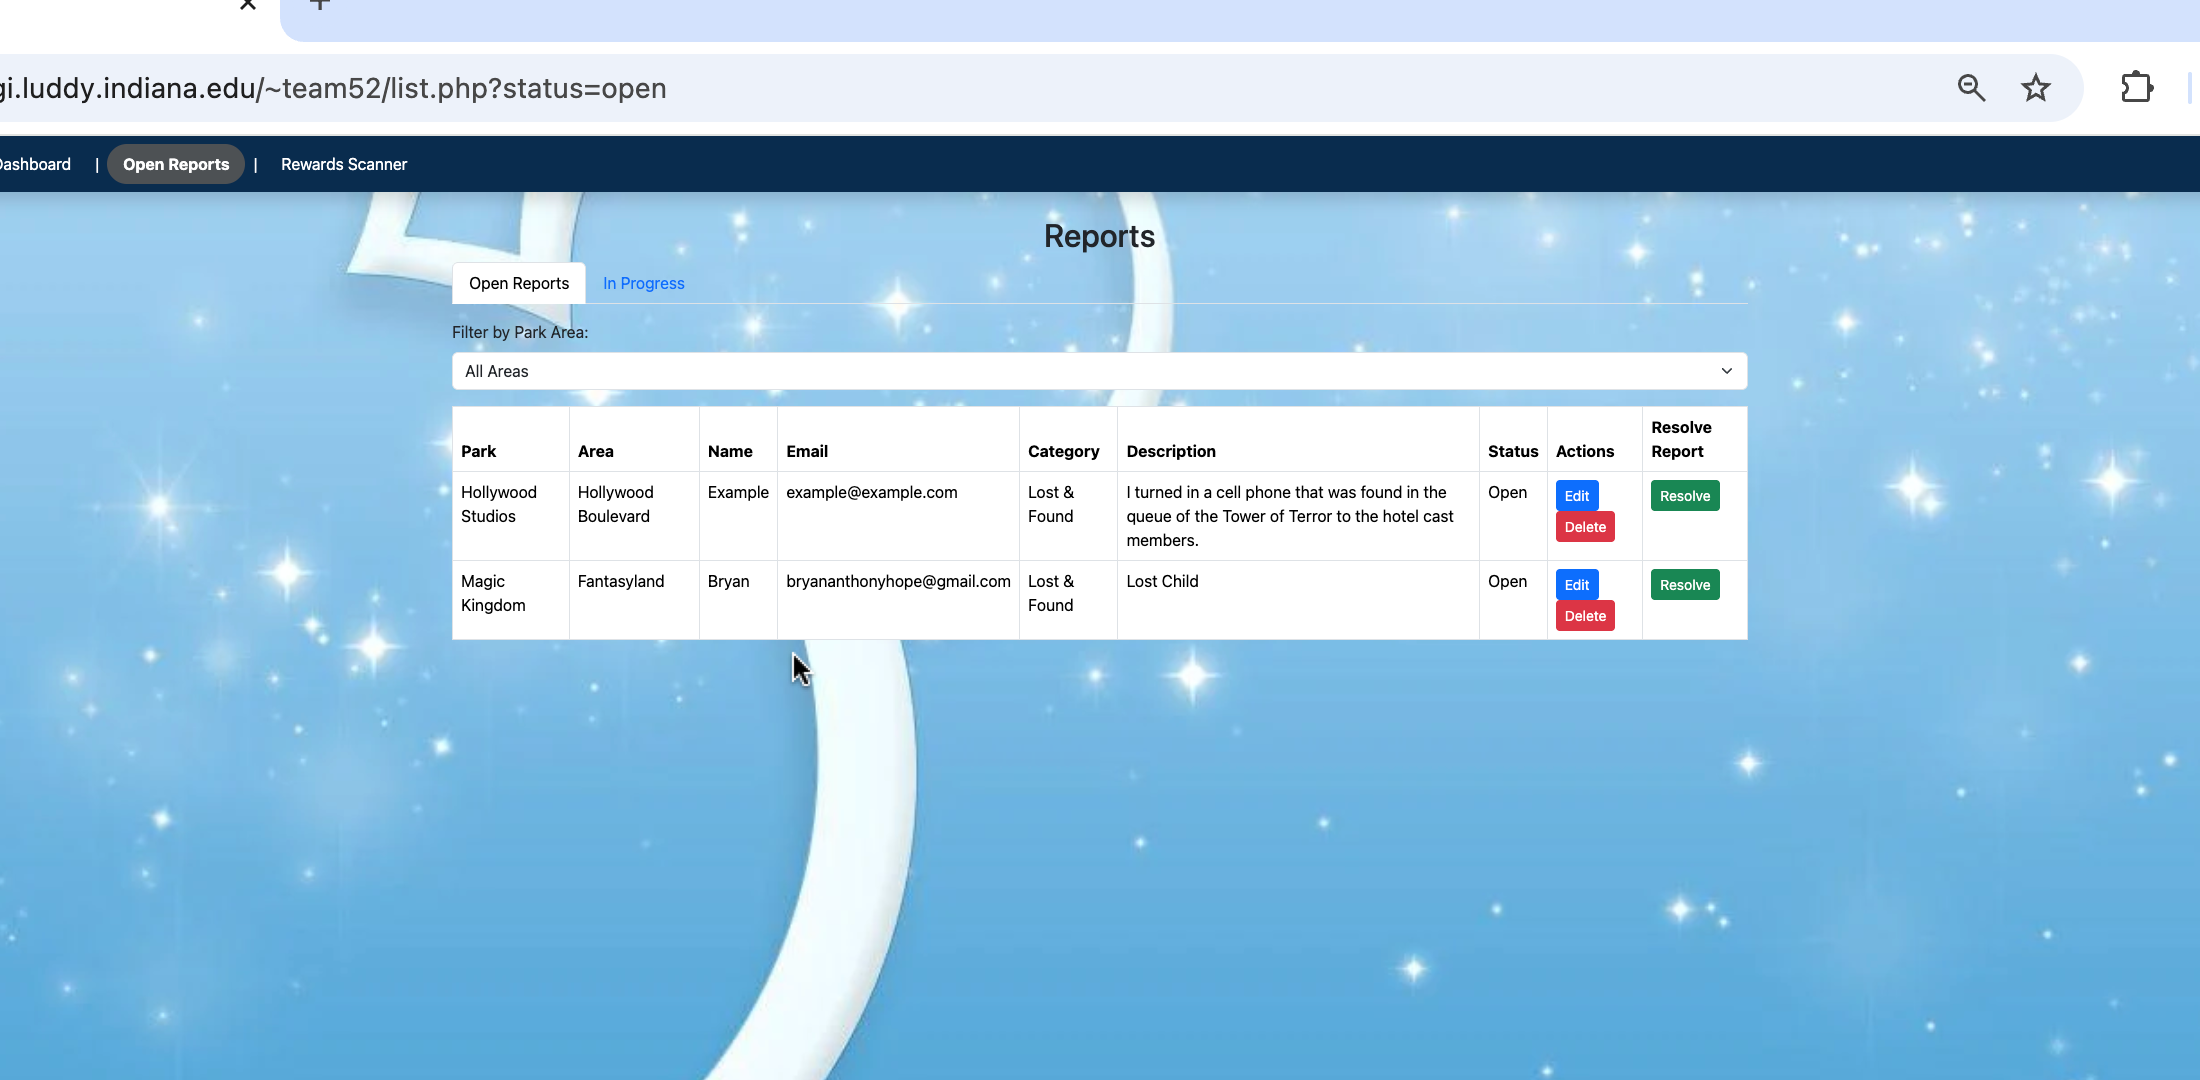
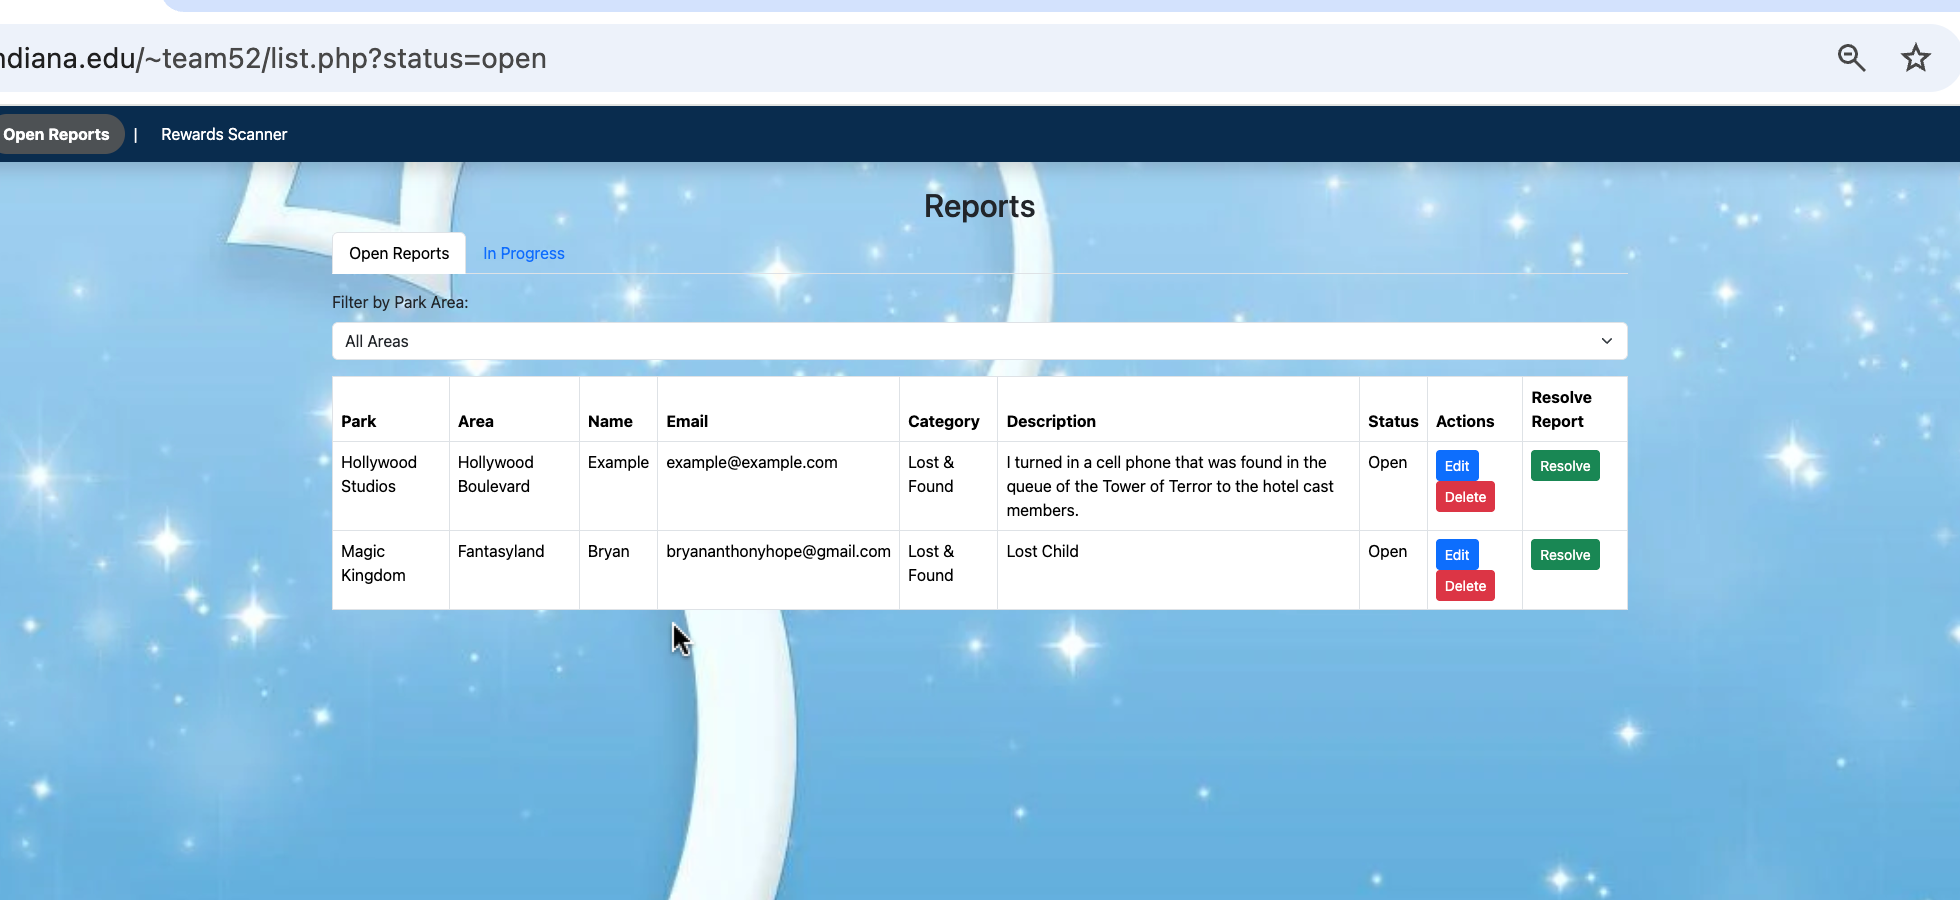
Give rewards and staff screenshots full-width frames.
Crop those two captures tighter around the UI, stack them at the same size as the other case-study images, and drop the live-app button now that the site is offline.

diff --git a/docs/parkspotter.html b/docs/parkspotter.html
@@ -193,16 +193,15 @@
             <p>Using that same email, a guest opens a table of their submissions: park, area, category, status, and actions to edit or delete. Season-ticket holders asked for this explicitly. Status is the product. Without it, reporting feels like shouting into a well.</p>
         </article>
 
-        <div class="figure-grid">
-            <figure>
-                <img src="parkspotter-rewards.png" alt="Rewards page showing current points and three redeemable perks: free drink, discounted ticket, and VIP pass." />
-                <figcaption>Guest rewards — a reason to report the next issue too.</figcaption>
-            </figure>
-            <figure>
-                <img src="parkspotter-staff.png" alt="Cast member dashboard listing open reports with park, area, category, status, and resolve actions." />
-                <figcaption>Staff queue — filter, pick up, close the loop.</figcaption>
-            </figure>
-        </div>
+        <figure class="figure">
+            <img src="parkspotter-rewards.png" alt="Rewards page showing current points and three redeemable perks: free drink, discounted ticket, and VIP pass." />
+            <figcaption>Guest rewards — a reason to report the next issue too.</figcaption>
+        </figure>
+
+        <figure class="figure">
+            <img src="parkspotter-staff.png" alt="Cast member dashboard listing open reports with park, area, category, status, and resolve actions." />
+            <figcaption>Staff queue — filter, pick up, close the loop.</figcaption>
+        </figure>
 
         <article class="prose">
             <h3>Rewards</h3>
@@ -318,8 +317,7 @@
             <p>Scope was the other lesson. The accessibility map and the notification feed were good ideas for a different product. Cutting them was the design decision that let the real one finish.</p>
             <p>If I continued the work, I would move staff login off the guest landing, quiet the employee background so the table can breathe, and run task-timed tests on the map pin. Double-tap is learnable; it is not obvious. I would also start structured usability earlier than we did — we found the important friction, just later than I would like.</p>
             <div class="btn-row">
-                <a class="btn btn-primary" href="https://cgi.luddy.indiana.edu/~team52/home.php" target="_blank" rel="noopener noreferrer">Open the live app</a>
-                <a class="btn btn-ghost" href="https://zion.luddy.indiana.edu/info-capstone-2025/parkspotter" target="_blank" rel="noopener noreferrer">IU capstone booth</a>
+                <a class="btn btn-primary" href="https://zion.luddy.indiana.edu/info-capstone-2025/parkspotter" target="_blank" rel="noopener noreferrer">IU capstone booth</a>
                 <a class="btn btn-ghost" href="projects.html">Back to work</a>
             </div>
         </article>
